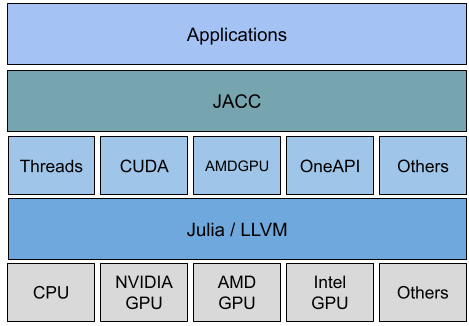
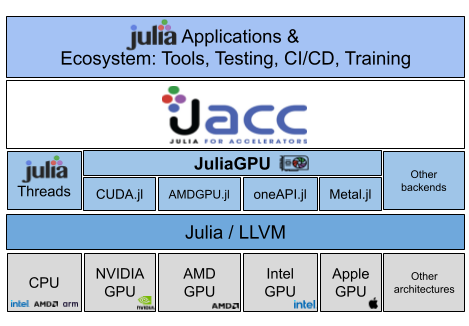
Add API documentation

diff --git a/docs/src/api_usage.md b/docs/src/api_usage.md
@@ -1,14 +1,16 @@
 ## API components
 
-JACC API consist of three main components:
+JACC APIs consist of three main components:
 
-- Backend selection: e.g. `JACC.set_backend("CUDA")` and `JACC.@init_backend`
-- Memory models: e.g. `JACC.array{T}()`, `JACC.zeros`, `JACC.ones`, `JACC.shared`, `JACC.Multi`
-- Kernel launching: e.g. `JACC.parallel_for`, `JACC.parallel_reduce`
+- **Backend selection**: e.g. `JACC.set_backend("CUDA")` (outside user code) and `JACC.@init_backend` (inside user code)
+
+- **Memory allocation**: e.g. `JACC.array{T}()`, `JACC.zeros`, `JACC.ones`, `JACC.shared`, `JACC.Multi`
+
+- **Kernel launching**: e.g. `JACC.@parallel_for` and `JACC.@parallel_reduce` (along with functions for `JACC.parallel_for` and `JACC.parallel_reduce`)
 
 ## Backend selection
 
-- `JACC.set_backend`: allows selecting the runtime back end on **CPU**: `Threads` (default) and **GPU**: `CUDA`, `AMDGPU`, `oneAPI`. Uses Preferences.jl and stores the selected back end in a [LocalPreferences.jl](https://github.com/JuliaPackaging/Preferences.jl) file if JACC.jl is a project dependency. Use `JACC.set_backend` prior to running any code targeting a particular back end.
+- **`JACC.set_backend`**: allows selecting the runtime backend on **CPU**: `Threads` (default) and **GPU**: `CUDA`, `AMDGPU`, `oneAPI`. Uses Preferences.jl and stores the selected backend in a [LocalPreferences.jl](https://github.com/JuliaPackaging/Preferences.jl) file if JACC.jl is a project dependency. Use `JACC.set_backend` prior to running any code targeting a particular backend.
 
 Example:
 ```julia
@@ -16,13 +18,19 @@ using JACC
 JACC.set_backend("CUDA")
 ```
 
+or from the command line (e.g. in CI workflows):
+
+```
+$ julia -e 'using JACC; JACC.set_backend("CUDA")'
+```
+
 !!! danger 
 
-    `set_backend` will polute your project's `Project.toml` adding the selected backend package. Beware of committing this change (e.g. during development). 
+    `set_backend` will polute your project's `Project.toml` adding the selected backend package. Beware of committing this change (e.g. during development). To clean up, you can run `JACC.unset_backend()` or manually edit your local `Project.toml` file.
 
 !!! warning
 
-    This step might take a while the very first time downloading all back end dependencies. 
+    This step might take a while the very first time downloading all backend dependencies. 
 
 !!! tip "Tip for CUDA" 
 
@@ -32,8 +40,7 @@ JACC.set_backend("CUDA")
 
     AMDGPU.jl relies on standard `rocm` installation under `/opt/rocm`, for non-standard locations set the environment variable `ROCM_PATH`, see [docs](https://amdgpu.juliagpu.org/stable/install_tips).
 
-
-- `JACC.@init_backend`: initializes the selected back end automatically from `LocalPreferences.toml` from `JACC.set_backend`. `JACC.@init_backend` should be used in your code before using any JACC.jl functionality. Recent improvements have made this process more seamless.
+- **`JACC.@init_backend`**: initializes the selected back end automatically from `LocalPreferences.toml` from `JACC.set_backend`. `JACC.@init_backend` should be used in your code before using any JACC.jl functionality. Recent improvements have made this process more seamless.
 
 Example:
 ```julia
@@ -41,22 +48,157 @@ using JACC
 JACC.@init_backend
 ```
 
-!!! tip
+!!! tip "Always use `JACC.@init_backend`"
 
-    Always use `JACC.@init_backend` right after `import JACC` or `using JACC` for portable back end agnostic code.
+    Use `JACC.@init_backend` right after `import JACC` or `using JACC` for portable backend-agnostic code.
 
-## Memory models
+## Memory allocation
 
-- `JACC.array{T}()`: create a new array on the device with the specified type and size.
-- `JACC.zeros`: create a new array on the device filled with zeros.
-- `JACC.ones`: create a new array on the device filled with ones.
+- **`JACC.array{T}()`**: create a new array on the device with the specified type and size.
+- **`JACC.zeros`**: create a new array on the device filled with zeros.
+- **`JACC.ones`**: create a new array on the device filled with ones.
+- **`JACC.fill`**: create a new array on the device filled with a specified value.
+- **`JACC.to_device`**: transfer an existing Julia array from host to device.
+- **`JACC.to_host`**: transfer an existing JACC array from device to host.
    
 Advanced memory:
-- `JACC.shared`: exploit fast-access cache memory on device. Use it inside kernel functions. Please see the paper [Valero-Lara IEEE HPEC 2024](https://ieeexplore.ieee.org/document/10938453) for more details.
-- `JACC.Multi`: allows the programmability of multiple-GPU devices on a single node without the need of MPI. Please see the paper [Valero-Lara et al. IEEE eScience 2025]() 
-- `JACC.@atomic`: create an atomic variable on the device for safe concurrent access. Wraps `@atomic` from the supported [Atomix.jl](https://github.com/JuliaConcurrent/Atomix.jl) package in the JuliaGPU ecosystem.
+- **`JACC.Multi module`**: allows the programmability of multiple-GPU devices on a single node without the need of MPI. Please see the paper [Valero-Lara et al. IEEE eScience 2025](https://ieeexplore.ieee.org/document/11181490) 
+
+- **`JACC.shared`**: exploits fast-access cache memory on device. Use it inside kernel functions. Please see the paper [Valero-Lara IEEE HPEC 2024](https://ieeexplore.ieee.org/document/10938453) for more details.
+  
+- **`JACC.@atomic`**: creates an atomic operation for safe concurrent access. Use it inside kernel functions. Wraps `@atomic` from the supported [Atomix.jl](https://github.com/JuliaConcurrent/Atomix.jl) package in the JuliaGPU ecosystem. Careful must be taken as atomic operations can be costly in terms of performance.
 
 ## Kernel launching
 
-- `JACC.parallel_for`: launch a parallel for loop (each `i` index is independent).
-- `JACC.parallel_reduce`: launch a parallel reduce operation.
+JACC provides two main macros/functions to launch parallel workloads on the selected back end: `JACC.@parallel_for/parallel_for` and `JACC.@parallel_reduce/parallel_reduce`.
+
+**`JACC.@parallel_for/parallel_for`**: launch a parallel for loop (each `i` index is independent) running a "kernel" workload function with variadic arguments. 
+  
+- **`JACC.@parallel_reduce/parallel_reduce`**: launch a parallel reduce operation running a "kernel" workload function with variadic arguments.
+
+!!! tip "macro vs function"
+
+    The preferred way is to use the macros `@parallel_for` and `@parallel_reduce` as they provide a more expressive syntax separating kernel definitions (e.g., computational science) from optional launch parameters (e.g., computer science) for readability. It follows closer [Julia's rich metaprogramming philosophy from Lisp](https://docs.julialang.org/en/v1/manual/metaprogramming/).
+
+!!! tip "`parallel_reduce` convenience functions"
+
+    Optionally, the `parallel_reduce` function provides convenient simplified overloads for common reduction operations, e.g., `x_sum = JACC.parallel_reduce(x)` computes the sum of all elements in array `x`.
+
+
+## Basic kernel launching
+
+Basic usage of `@parallel_for/@parallel_reduce` macros implies that the user only needs to define the kernel function and then launch it with the desired range and arguments. Thus, completely abstracting away backend-specific details that are not necessarily portable.
+
+The general format of a kernel launch is as follows:
+
+```julia
+function kernel_function(i, args...)
+    # kernel code here
+end
+
+JACC.@parallel_for range=kernel_range kernel_function(args...)
+result = JACC.@parallel_reduce range=kernel_range op=operator init=initial_value kernel_function(args...)
+```
+
+Example of `@parallel_for` macro:
+
+```julia
+
+function kernel_1D(i, args...)
+    # kernel code here
+end
+
+function kernel_2D(i, j, args...)
+    # kernel code here
+end
+
+function kernel_2D(i, j, k, args...)
+    # kernel code here
+end
+
+JACC.@parallel_for range=N kernel_1D(args...)
+JACC.@parallel_for range=(Nx, Ny) kernel_2D(args...)
+JACC.@parallel_for range=(Nx, Ny, Nz) kernel_3D(args...)
+```
+
+Example of `@parallel_reduce` macro and convenience functions for sum reduction:
+
+```julia
+import JACC
+JACC.@init_backend
+
+N = 10 
+x = JACC.ones(Float32, N) 
+
+# sum reduction over array x
+x_sum1 = JACC.@parallel_reduce range=N ((i,x)->x[i])(x)
+@show x_sum1
+
+function elem(i, x)
+    return x[i]
+end
+
+x_sum2 = JACC.@parallel_reduce range=N elem(x)
+@show x_sum2
+
+# convenience functions for sum (default) reduction
+x_sum3 = JACC.@parallel_reduce range=N JACC.elem_access(x)
+@show x_sum3
+
+x_sum4 = JACC.parallel_reduce(x)
+@show x_sum4
+```
+
+Output:
+```
+x_sum1[] = 10.0
+x_sum2[] = 10.0
+x_sum3[] = 10.0
+x_sum4 = 10.0f0
+```
+
+!!! warning "@parallel_reduce vs parallel_reduce" return types
+
+    Note that the `@parallel_reduce` macro returns an array type, while the `parallel_reduce` convenience function returns the reduced value directly. Use the one that fits your needs.
+
+In summary:
+- `JACC.@parallel_for range=kernel_range kernel_function(args...)` requires a range and a kernel function with arguments.
+
+- `JACC.@parallel_reduce range=kernel_range op=operator init=initial_value kernel_function(args...)` requires a range, an operator (+,*,min,max), an initial value, and a kernel function with arguments.
+
+Convenience functions for common reduction operations:
+
+- `red = JACC.parallel_reduce(a)`
+
+- `red = JACC.parallel_reduce(op, a)` with special op= +, *, min, max
+
+- `red = JACC.parallel_reduce(dims, dot, x1, x2)` Special op=dot product reduction, requires two arrays x1, x2.
+
+
+
+## Advanced kernel launching
+
+JACC also provides advanced options for kernel launching, allowing users to specify additional parameters such as blocks/thread sizes (GPU only), shared memory usage, and more. These options can be passed as keyword arguments to the `@parallel_for` and `@parallel_reduce` macros.
+
+```
+JACC.@parallel_for range=kernel_range blocks= blocks threads=threads shmem_size=shmem_size sync=true stream=stream_handler kernel_function(args...)
+```
+
+where the additional parameters are:
+- `blocks`: number of blocks (GPU only)
+- `threads`: number of threads per block (GPU only)
+- `shmem_size`: size of shared memory to allocate in KB (GPU only)
+- `stream`: stream identifier (GPU only), handler from `JACC.default_stream()` or `JACC.create_stream()` see [AMD GPU tests](https://github.com/JuliaGPU/JACC.jl/blob/main/test/backend/amdgpu.jl)
+- `sync`: true or false, whether to synchronize after kernel launch (default: true)
+
+```
+JACC.@parallel_reduce range=kernel_range op=operator init=initial_value blocks=blocks threads=threads  sync=true stream=stream_handler kernel_function(args...)
+```
+
+where the additional parameters are:
+- `blocks`: number of blocks (GPU only)
+- `threads`: number of threads per block (GPU only)
+- `stream`: stream identifier (GPU only), handler from `JACC.default_stream()` or `JACC.create_stream()` see [AMD GPU tests](https://github.com/JuliaGPU/JACC.jl/blob/main/test/backend/amdgpu.jl)
+- `sync`: true or false, whether to synchronize after kernel launch (default: true)
+
+Other examples and more advanced usages can be found in the [JACC tests directory](https://github.com/JuliaGPU/JACC.jl/blob/main/test/unittests.jl)

diff --git a/docs/src/index.md b/docs/src/index.md
@@ -1,10 +1,20 @@
 
 ## JACC Introduction
-JACC.jl is a Julia package for performance portable CPU/GPU kernels using metaprogramming on top of existing Julia back ends. It enables users to write a single code based on an `array` memory model and `parallel_for` and `parallel_reduce` functions that can run on both CPUs and GPUs without needing to rewrite the code for each platform.
 
-While the [JuliaGPU](https://juliagpu.org/) ecosystem provides powerful tools for GPU programming, JACC leverages these capabilities to simplify the process of writing portable code that can run on both CPUs and GPUs without modification. Hence JACC is complementary to existing solutions in Julia. Users do not need to worry about the underlying hardware and software, or GPU low-level programming concepts. 
+JACC.jl is a Julia package for performance portable CPU/GPU kernels using metaprogramming on top of existing Julia backends. It enables users to write a single code based on an **`array`** memory model and **`parallel_for`** and **`parallel_reduce`** functions that can run on both CPUs and GPUs without needing to rewrite the code for each platform.
 
-*JACC overview*:
+!!! why "Who can benefit with JACC?"
+
+    Scientists and engineers can benefit from JACC's default basic APIs that enable minimal effort to access CPU and GPU parallel capabilities to accelerate codes and let users focus on their algorithms and science. Advanced users can also access low-level backend specific features (e.g., blocks/threads and synchronization) when needed. 
+
+
+![parallel_for](assets/parallel_for.png)
+
+As shown in the schematics, **`parallel_for`** (and **`parallel_reduce`**) constructs are functional forms of for-loops that can be executed in parallel on multiple processing units (e.g., CPU cores, GPU threads). They allow users to express parallelism in their code without dealing with low-level threading or synchronization details across vendor architectures. JACC provides a unified API to launch parallel workloads on different back ends (CPU/GPU) without changing the user's code.
+
+While the [JuliaGPU](https://juliagpu.org/) ecosystem provides powerful tools for GPU programming, JACC sits on top of these backends leveraging these capabilities to simplify the process of writing portable code that can run on both CPUs and GPUs without modification. Thus filling a gap in the Julia ecosystem for productive, high-level programming for performance portability across heterogeneous computing platforms.
+
+*JACC architecture overview*:
 
 ![JACC Architecture](assets/jacc.png)
 
@@ -14,9 +24,6 @@ Resources:
 - For a broader understanding of JACC's design principles and goals, please refer to the [JACC paper at SC-W 2024](https://ieeexplore.ieee.org/document/10820713) - open version [available here](https://conferences.computer.org/sc-wpub/pdfs/SC-W2024-6oZmigAQfgJ1GhPL0yE3pS/555400b955/555400b955.pdf).
 - For a full example using JACC, see the Gray-Scott [code](https://github.com/JuliaORNL/GrayScott.jl/blob/main/src/simulation/Simulation.jl#L11) and "Julia for HPC" Tutorial [material](https://juliaornl.github.io/TutorialJuliaHPC/)
 
-!!! why "Why JACC?"
-
-    JACC's default basic APIs enable minimal effort to access CPU and GPU parallel capabilities to accelerate codes and let users focus on their algorithms and science.
 
 ## Why Julia?
 
@@ -35,16 +42,27 @@ Resources:
 - **GPU from [JuliaGPU](https://juliagpu.org/)**:
   - `CUDA`: NVIDIA GPUs using the [CUDA.jl](https://github.com/JuliaGPU/CUDA.jl) package.
   - `AMDGPU`: AMD GPUs using the [AMDGPU.jl](https://github.com/JuliaGPU/AMDGPU.jl) package.
+  - `Metal`: Apple Silicon GPUs using the [Metal.jl](https://github.com/JuliaGPU/Metal.jl) package.
   - `oneAPI`: Intel GPUs using the [oneAPI.jl](https://github.com/JuliaGPU/oneAPI.jl) package (Experimental).
 
 ## Installation
 
-JACC is a registed Julia package. Install JACC using Julia's [Pkg.jl](https://pkgdocs.julialang.org/dev/managing-packages/#Managing-Packages) capabilities for managing packages. 
+JACC is a registered Julia package. Install JACC using Julia's [Pkg.jl](https://pkgdocs.julialang.org/dev/managing-packages/#Managing-Packages) capabilities for managing packages. 
 e.g.
 
+Installation from the Julia REPL:
+
 ```
+julia> ]
 pkg> add JACC
 ```
+
+from command line (e.g. CI):
+
+```bash
+julia -e 'using Pkg; Pkg.add("JACC")'
+```
+
 
 ## Quick start - filling and reducing an array
 
@@ -69,13 +87,14 @@ function axpy(i, alpha, x, y)
     @inbounds x[i] += alpha * y[i]
 end
 
-N = 100_000
-alpha = 2.0
-x = JACC.zeros(Float64, N)
+N = 10
+alpha = Float32(2.0)
+x = JACC.zeros(Float32, N)
 y = JACC.array(fill(Float32(5), N))
-JACC.parallel_for(N, axpy, alpha, x, y)
-a = JACC.parallel_reduce(x)
-println("Result: ", a)
+JACC.@parallel_for range=N axpy(alpha, x, y)
+@show x
+x_sum = JACC.parallel_reduce(x)
+@show x_sum
 ```
 
 - Run the example using the default Threads back end with 4 threads:
@@ -84,7 +103,7 @@ println("Result: ", a)
 julia -t 4 jacc-saxpy.jl
 ```
 
-- Switch to another back end, e.g. assuming access to NVIDIA GPU and that CUDA is installed and configured:
+- Switch to another backend, e.g. assuming access to NVIDIA GPU and that CUDA is installed and configured:
 
 ```bash
 julia -e 'using JACC; JACC.set_backend("CUDA")'
@@ -93,6 +112,11 @@ julia -e 'using JACC; JACC.set_backend("CUDA")'
 !!! note
 
     This step might take a while the first time downloading all CUDA.jl dependencies. After installation please refer to CUDA.jl docs if wanting to [use a local CUDA installation](https://cuda.juliagpu.org/stable/installation/overview/#Using-a-local-CUDA).
+
+!!! note
+
+    Mac users can use the "Metal" backend for `Float32` computations as `Float64 is not supported on Apple Silicon GPUs`. To set the Metal backend use `JACC.set_backend("Metal")`.
+
 
 - Run the example again, but this time the same code will run on the GPU:
 

diff --git a/docs/src/miscellaneous.md b/docs/src/miscellaneous.md
@@ -1,0 +1,60 @@
+## Acknowledgements
+
+JACC is funded by the US Department of Energy Advanced Scientific Computing Research
+(ASCR) projects:
+
+- [S4PST](https://s4pst.org/) as part of the Next Generation of Scientific Software Technologies (NGSST) ASCR Program. 
+- NGSST sponsors the Consortium for the Advancement of Scientific Software, [CASS](https://cass.community/)
+- ASCR Competitive Portfolios for Advanced Scientific Computing Research, MAGMA/Fairbanks
+
+Former sponsors:
+
+- [ASCR Bluestone X-Stack](https://csmd.ornl.gov/Bluestone)
+- The Exascale Computing Project -
+  [PROTEAS-TUNE](https://www.ornl.gov/project/proteas-tune) 
+
+JACC would not be possible without the contributions of the [Julia language](https://julialang.org/) and the [JuliaGPU](https://juliagpu.org/) community and the amazing GPU work of the [CUDA.jl](https://github.com/JuliaGPU/CUDA.jl), [AMDGPU.jl](https://github.com/JuliaGPU/AMDGPU.jl), [oneAPI.jl](https://github.com/JuliaGPU/oneAPI.jl) and [Metal.jl](https://github.com/JuliaGPU/Metal.jl) backend developers.
+
+## Citing JACC
+Much of JACC is motivated by the Julia desire to make high-performance computing more accessible to a broader range of users. If you use JACC in your research or projects, we would appreciate it if you could cite our paper from [SC24-WAACPD](https://doi.org/10.1109/SCW63240.2024.00245), open version available [here](https://conferences.computer.org/sc-wpub/pdfs/SC-W2024-6oZmigAQfgJ1GhPL0yE3pS/555400b955/555400b955.pdf).
+
+bib entry:
+
+```
+@INPROCEEDINGS{JACC,
+  author={Valero-Lara, Pedro and Godoy, William F and Mankad, Het and Teranishi, Keita and Vetter, Jeffrey S and Blaschke, Johannes and Schanen, Michel},
+  booktitle={Proceedings of the SC '24 Workshops of The International Conference on High Performance Computing, Network, Storage, and Analysis},
+  title={{JACC: Leveraging HPC Meta-Programming and Performance Portability with the Just-in-Time and LLVM-based Julia Language}},
+  year={2024},
+  volume={},
+  number={},
+  pages={},
+  doi={10.1109/SCW63240.2024.00245}
+}
+```
+
+Other papers that contributed to JACC's exploratory research include:
+
+- [JACC shared at IEEE HPEC](https://doi.org/10.1109/HPEC62836.2024.10938453)
+- [JACC Multi-GPU IEEE eScience](https://www.escience-conference.org/2025/papers)
+
+## License
+JACC.jl is licensed under the permissive MIT License, UT-BATTELLE, LLC owns the Copyright. See the [LICENSE](https://github.com/JuliaGPU/JACC.jl/blob/main/LICENSE) file for details. We will remain open-source and welcome contributions from the community.
+
+## Frequently Asked Questions
+
+1. **How does JACC differ from other Julia GPU programming packages?**
+
+   JACC focuses on providing a high-level, backend-agnostic API for parallel computing that abstracts away the complexities of different CPU/GPU architectures. It leverages Julia's metaprogramming capabilities to offer a unified interface for various backends, making it easier for developers to write portable code without having to learn the nuances of each backend or GPU programming model. Hence, JACC.jl is complimentary to existing programming models in the Julia ecosystem and targets the needs of users seeking a unified, portable approach for HPC codes. We invite users to explore the [JuliaGPU](https://juliagpu.org/) ecosystem for more specialized GPU programming needs. One important thing to note is that JACC is not a new backend itself but rather a layer on top of existing backends like CUDA.jl, AMDGPU.jl, Metal.jl, and oneAPI.jl. We welcome collaborations with other JuliaGPU backend developers to ensure compatibility and leverage their strengths.
+
+2. **What is the performance overhead of using JACC compared to writing backend-specific code?**
+
+   While JACC introduces some abstraction layers, it is designed to minimize performance overhead. The just-in-time (JIT) compilation and LLVM-based optimizations in Julia help ensure that the generated code is efficient. Our SC24-WAACPD paper includes performance benchmarks demonstrating that JACC can achieve performance comparable to backend-specific implementations for many workloads. However, for highly specialized or performance-critical applications, users may still choose to write backend-specific code when necessary. This is ongoing exploratory research with actual science applications, see [JACC-applications](https://github.com/JuliaORNL/JACC-applications).
+
+3. **Who uses JACC?**
+
+    JACC is primarily targeted at scientists, engineers, and researchers. We thank the early adopters for their feedback, in particular CERFACS, the University of Tokyo, Riken [FugakuNext programming environments](https://www.dropbox.com/scl/fi/gxr4y51kmruajrjwzy43q/FugakuNEXT_7th_ApplicationSeminar.pdf?rlkey=awt4rh2lern0t8yb56a74jlmz&st=7d4c3t9s&dl=0),the [New Jersey Institute of Technology]() and Oak Ridge National Laboratory (where it originates) and anyone adopting Julia for their scietific computing capabilities. We aim to grow this community further. If you are using JACC in your projects, please let us know! We would love to hear about your experiences and use cases.
+    
+4. **What's JACC's governance model?**
+
+    JACC is open-source software hosted on GitHub funded primarily by the US Department of Energy for HPC science needs with the core development done at ORNL. Hence, our roadmap is driven by both community needs and the evolving landscape of HPC and GPU computing. We welcome contributions from the community, including bug reports, feature requests, and code contributions. The core development team at ORNL oversees the project's direction, but we encourage collaboration and input from users and contributors worldwide. Open an issue on GitHub to get involved.
